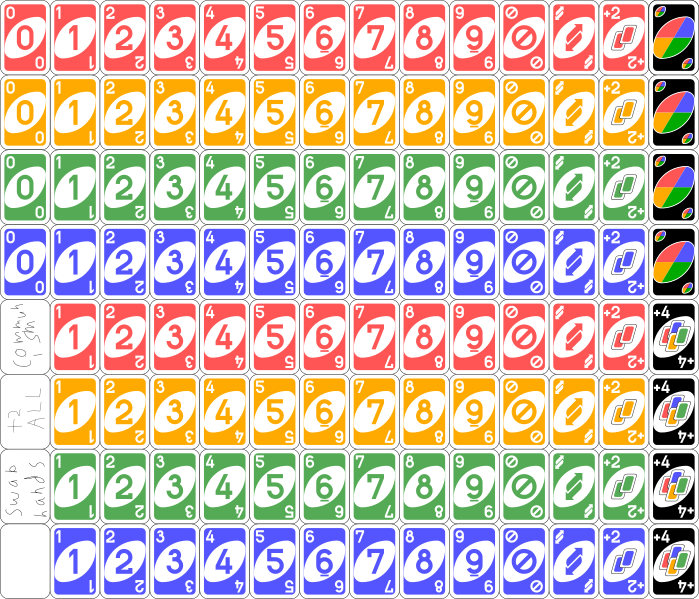
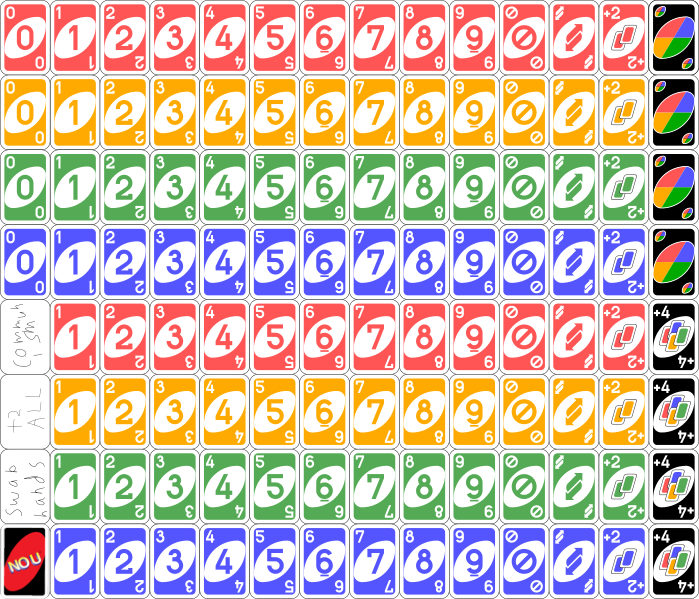
updated cards to include no u

Changed region(s): [[0.0, 0.8715, 0.0901, 1.0]]

diff --git a/ImageDemo.java b/ImageDemo.java
@@ -5,12 +5,7 @@ import javax.imageio.*;
 import javax.swing.*;
 
 /**
- * A Java class to demonstrate how to load an image from disk with the
- * ImageIO class. Also shows how to display the image by creating an
- * ImageIcon, placing that icon an a JLabel, and placing that label on
- * a JFrame.
  * 
- * @author alvin alexander, alvinalexander.com
  */
 public class ImageDemo
 {

diff --git a/Hand.java b/Hand.java
@@ -6,8 +6,8 @@ public class Hand{
         hand = new ArrayList<Card>();
     }
     
-    public void add(Card c){
-        hand.add(c);
+    public void add(Deck d){
+        hand.add(d.deal());
     }
     
     public Card play(int i){
